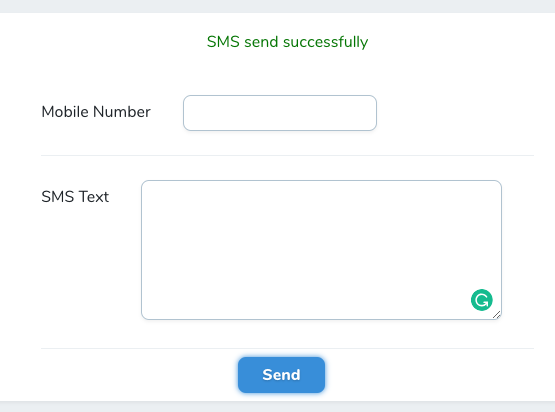
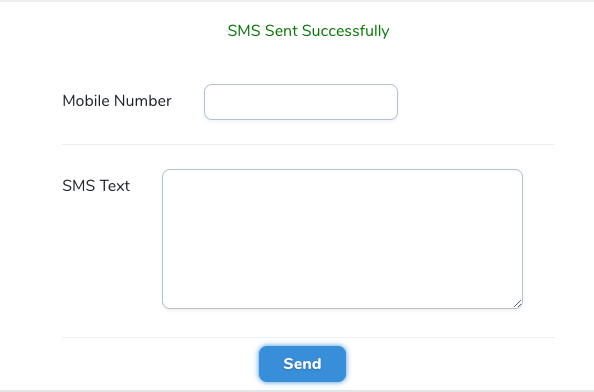
screenshot

diff --git a/src/Http/Controllers/SMSController.php b/src/Http/Controllers/SMSController.php
@@ -3,7 +3,6 @@ namespace Naif\NovaSms\Http\Controllers;
 
 use Illuminate\Http\Request;
 use SimpleSoftwareIO\SMS\Facades\SMS;
-use SimpleSoftwareIO\SMS\SMSNotSentException;
 
 class SMSController
 {
@@ -13,7 +12,7 @@ class SMSController
             SMS::send($request->sms_text, null, function ($sms) use ($request) {
                 $sms->to($request->mobile_number);
             });
-            return ['msg' =>'SMS send successfully', 'status' => true];
+            return ['msg' =>'SMS Sent Successfully', 'status' => true];
         } catch (\Exception $e){
             return ['msg' => $e->getMessage(),'status'=> false];
 
